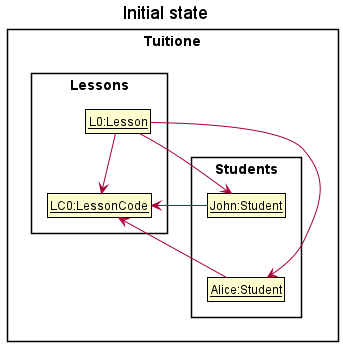
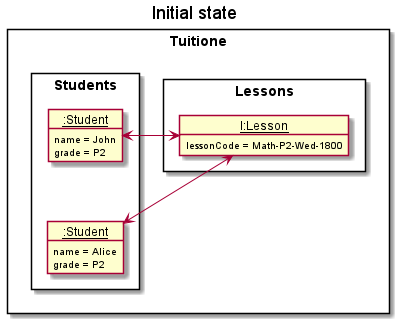
Update diagrams for delete lesson command

diff --git a/docs/DeveloperGuide.md b/docs/DeveloperGuide.md
@@ -177,11 +177,9 @@ _Note: For this usage, we only consider the main success scenario (i.e. the less
 
 <ins>Step 1:</ins>  
 
-User has a list of students and lessons presented in their TuitiONE application. For this case, the user has one lesson `L0` that is enrolled by 2 students `John` and `Alice`. The object state diagram is as such:
+User has a list of students and lessons presented in their TuitiONE application. For this case, the user has one lesson `l` that is enrolled by 2 students `John` and `Alice`. The object state diagram is as such:
 
 ![DeleteLessonState0](images/DeleteLessonState0.png)
-
-Lessons are directly linked with the Students enrolled (`L0 -> John & Alice`), while the Students are linked to the Lesson through the LessonCode (in this case `Alice -> LC0 <- L0, John -> LC0 <- L0`).
 
 <ins>Step 2:</ins>  
 
@@ -199,7 +197,7 @@ The final object state diagram is as such:
 
 ![DeleteLessonState1](images/DeleteLessonState1.png)
 
-Notice how there are no more associations between the Lesson/LessonCode and the Students.
+Notice how there are no more associations between the Lesson and the Students.
 
 The following sequence diagram shows how the delete lesson operation works:
 
